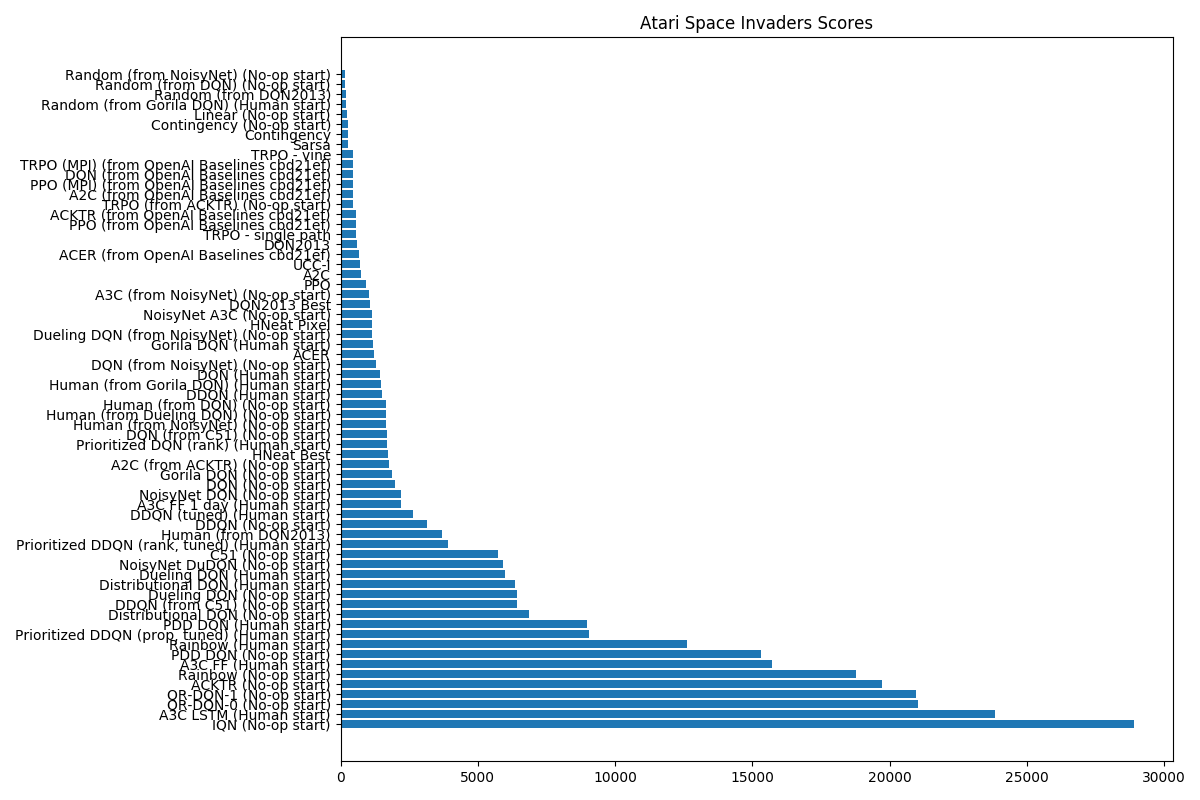
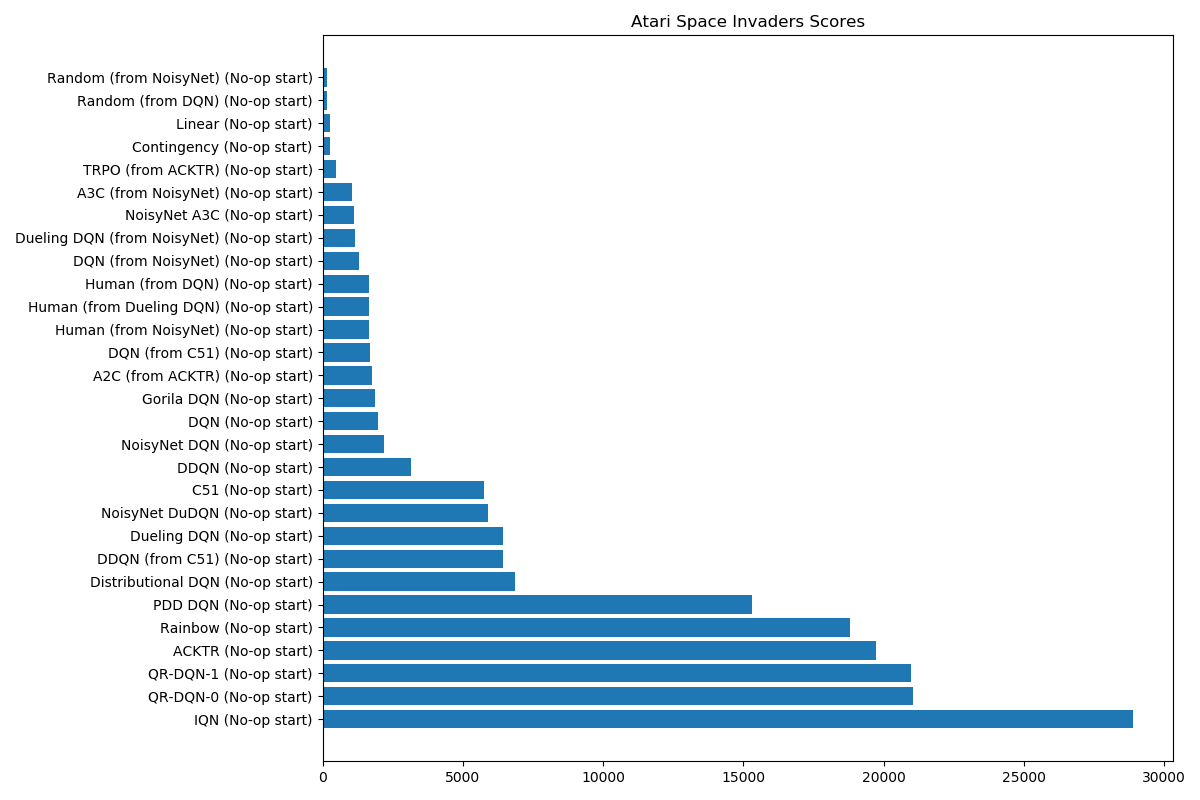
Condense Atari plot to No-op start

diff --git a/example_plot.py b/example_plot.py
@@ -50,7 +50,10 @@ def remove_duplicates(entries):
 
 def main():
     env_barplot(
-        filter={'env-title': 'atari-space-invaders'},
+        filter={
+            'env-title': 'atari-space-invaders',
+            'env-variant': 'No-op start',
+        },
         plot_title='Atari Space Invaders Scores',
         plot_name='atari-space-invaders',
     )
